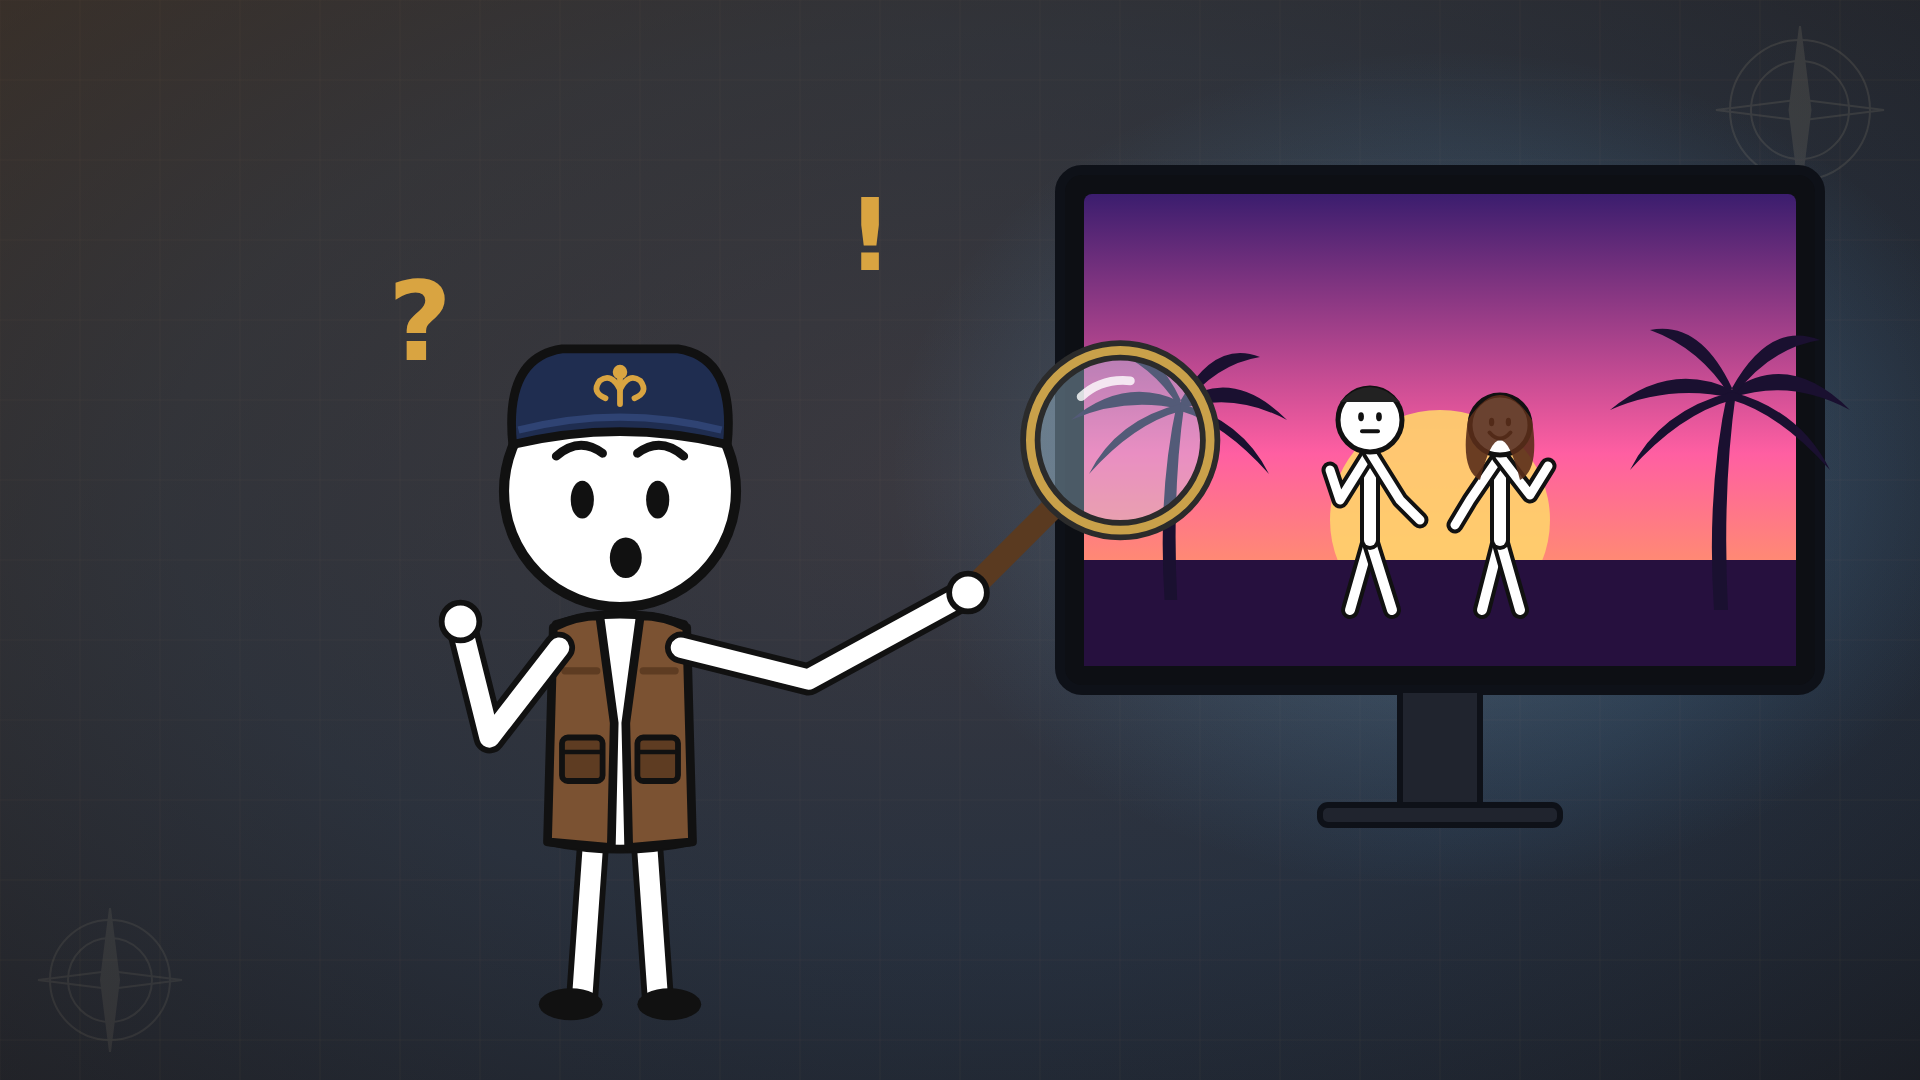
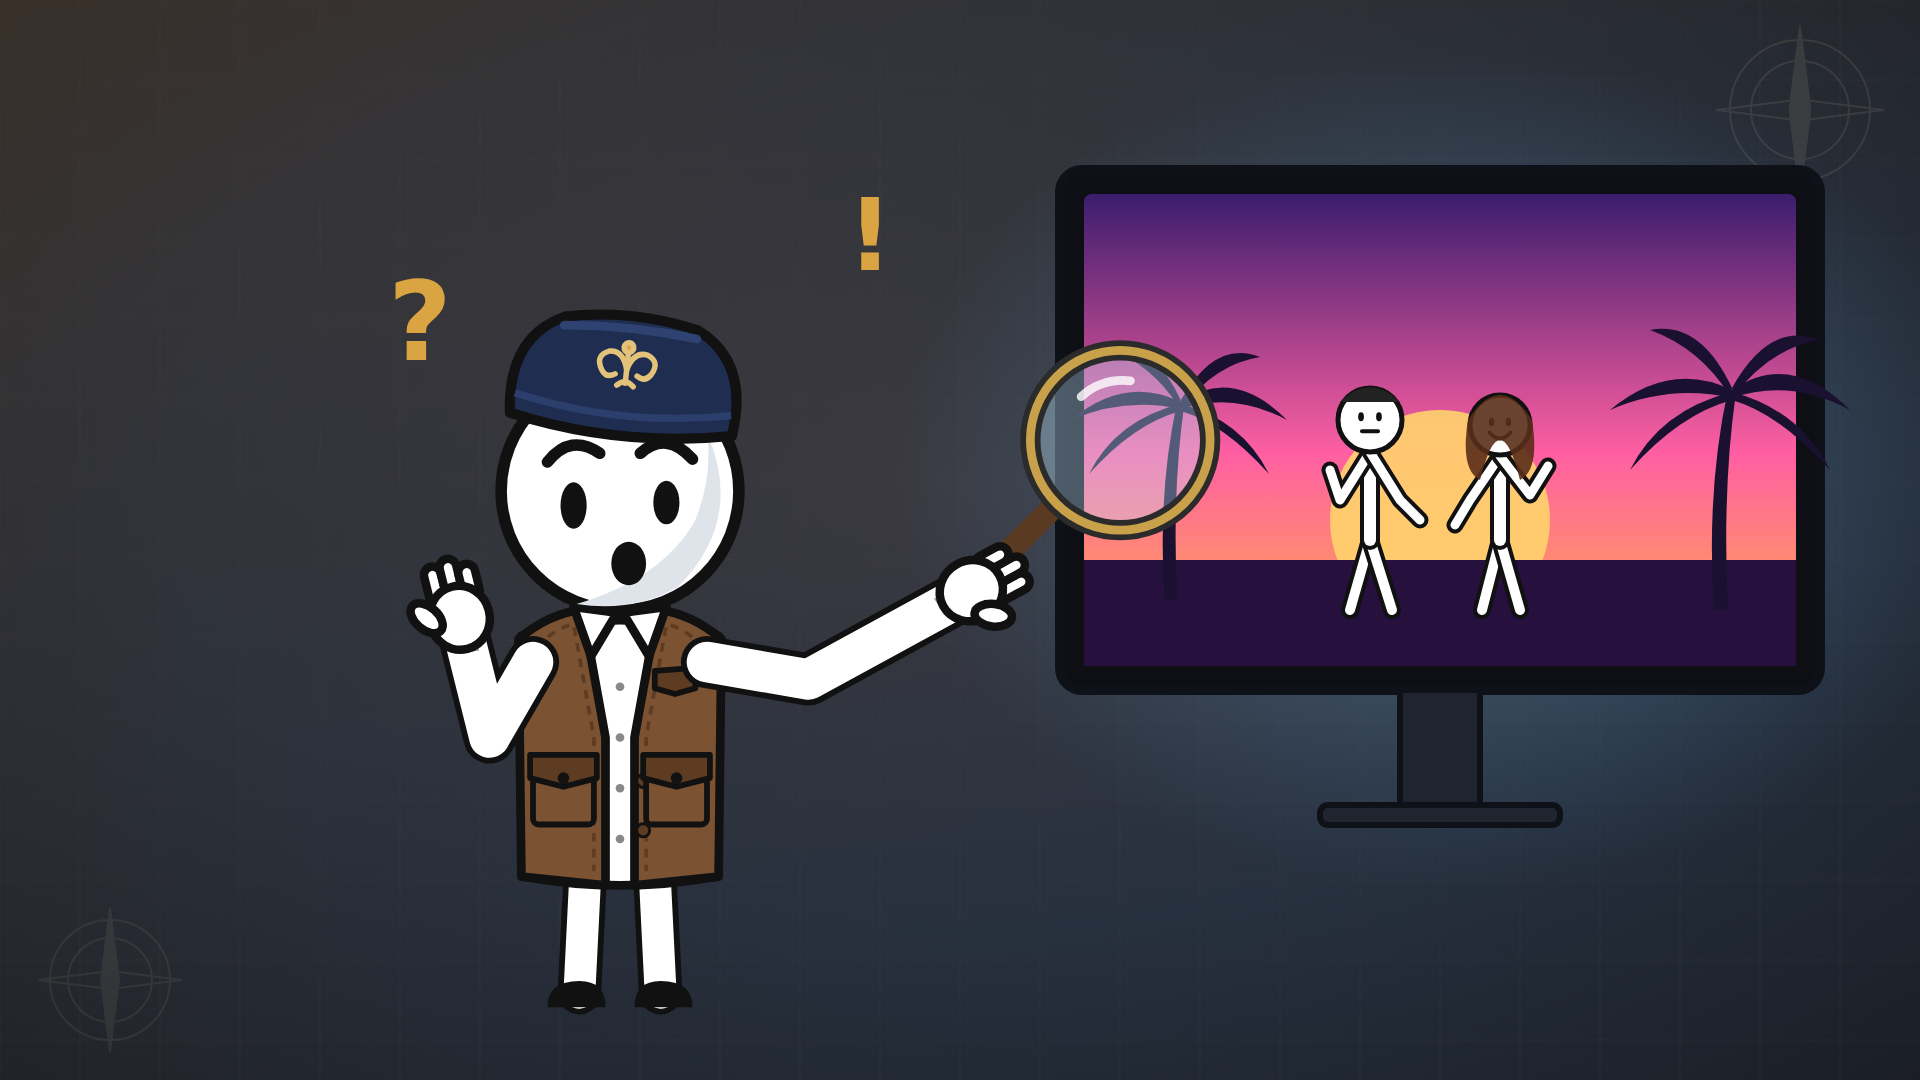
Redraw hero to match channel reference: dome taqiya, asymmetric brows, smirk, collar, pocketed vest, glove hands
Claude-Session: https://claude.ai/code/session_01PP4NAEE3rgNSQEwSM2dK67

Changed region(s): [[0.1875, 0.275, 0.5625, 0.9472]]

diff --git a/gta6_video/generate.py b/gta6_video/generate.py
@@ -28,8 +28,10 @@ def hand(x, y, r=13, fill="#ffffff"):
 
 
 def thumbs_up(x, y):
-    return (f'<rect x="{x-14}" y="{y-10}" width="28" height="24" rx="9" fill="#fff" stroke="{INK}" stroke-width="4"/>'
-            f'<rect x="{x-9}" y="{y-34}" width="11" height="28" rx="5.5" fill="#fff" stroke="{INK}" stroke-width="4"/>')
+    st = f'fill="#fff" stroke="{INK}" stroke-width="4.5"'
+    return (f'<g transform="translate({x},{y}) scale(1.3) translate({-x},{-y})"><rect x="{x-6}" y="{y-40}" width="14" height="34" rx="7" {st}/>'
+            f'<rect x="{x-18}" y="{y-12}" width="36" height="32" rx="11" {st}/>'
+            f'<path d="M{x-14},{y-2} h26 M{x-14},{y+8} h26" stroke="{INK}" stroke-width="3"/></g>')
 
 
 def text(x, y, s, size=40, fill="#f3e6c8", weight="bold", anchor="middle", extra=""):
@@ -77,93 +79,130 @@ def svg(body, title):
 
 # ---------- the channel hero: Зерттеуші Стикмен ----------
 def face(expr, dy=0, op=1):
+    """Face modelled on the channel reference: tall oval eyes, thick
+    asymmetric brows (left one arched higher), sideways smirk."""
     e = f'<g opacity="{op}" transform="translate(0,{dy})">'
+    br = f'stroke="{INK}" stroke-width="8" fill="none" stroke-linecap="round"'
     # eyes
     if expr == "wink":
-        e += f'<ellipse cx="-26" cy="-14" rx="8" ry="11" fill="{INK}"/>'
-        e += f'<path d="M14,-12 Q26,-20 38,-12" stroke="{INK}" stroke-width="5" fill="none" stroke-linecap="round"/>'
+        e += f'<ellipse cx="-28" cy="-10" rx="9" ry="14" fill="{INK}"/>'
+        e += f'<path d="M16,-8 Q30,-18 44,-8" stroke="{INK}" stroke-width="6" fill="none" stroke-linecap="round"/>'
     else:
-        ry = 13 if expr == "wow" else 11
-        e += f'<ellipse cx="-26" cy="-14" rx="8" ry="{ry}" fill="{INK}"/><ellipse cx="26" cy="-14" rx="8" ry="{ry}" fill="{INK}"/>'
+        ry = 16 if expr == "wow" else 14
+        e += f'<ellipse cx="-32" cy="-10" rx="9" ry="{ry}" fill="{INK}"/><ellipse cx="32" cy="-12" rx="9" ry="{ry-1}" fill="{INK}"/>'
     # brows
     if expr == "wow":
-        e += f'<path d="M-44,-44 Q-28,-58 -12,-46" stroke="{INK}" stroke-width="6" fill="none" stroke-linecap="round"/>'
-        e += f'<path d="M12,-46 Q28,-58 44,-44" stroke="{INK}" stroke-width="6" fill="none" stroke-linecap="round"/>'
+        e += f'<path d="M-50,-40 Q-34,-60 -14,-46" {br}/><path d="M14,-46 Q32,-62 50,-42" {br}/>'
     else:
-        e += f'<path d="M-44,-36 Q-28,-48 -12,-38" stroke="{INK}" stroke-width="6" fill="none" stroke-linecap="round"/>'
-        e += f'<path d="M12,-40 Q30,-50 44,-38" stroke="{INK}" stroke-width="6" fill="none" stroke-linecap="round"/>'
+        e += f'<path d="M-50,-34 Q-34,-54 -14,-42" {br}/><path d="M14,-40 Q32,-50 50,-36" {br}/>'
     # mouth
     if expr == "wow":
-        e += f'<ellipse cx="4" cy="26" rx="11" ry="14" fill="{INK}"/>'
+        e += f'<ellipse cx="6" cy="30" rx="12" ry="15" fill="{INK}"/>'
     elif expr == "grin":
-        e += f'<path d="M-30,14 Q4,52 36,12 Q4,26 -30,14 Z" fill="{INK}"/>'
-        e += '<path d="M-14,34 Q4,44 20,32 Q4,30 -14,34 Z" fill="#d9534f"/>'
+        e += f'<path d="M-30,16 Q8,56 44,12 Q8,28 -30,16 Z" fill="{INK}"/>'
+        e += '<path d="M-12,36 Q8,46 26,34 Q8,32 -12,36 Z" fill="#d9534f"/>'
     else:
-        e += f'<path d="M-28,18 Q2,44 36,12" stroke="{INK}" stroke-width="6" fill="none" stroke-linecap="round"/>'
-        e += f'<path d="M30,8 Q38,12 40,18" stroke="{INK}" stroke-width="5" fill="none" stroke-linecap="round"/>'
+        e += f'<path d="M-20,24 Q14,44 46,14" stroke="{INK}" stroke-width="7" fill="none" stroke-linecap="round"/>'
+        e += f'<path d="M42,6 Q52,10 52,20" stroke="{INK}" stroke-width="6" fill="none" stroke-linecap="round"/>'
     return e + '</g>'
 
 
 def taqiya(op=1):
-    return (f'<g opacity="{op}"><path d="M-74,-52 Q-80,-112 -40,-118 L40,-118 Q80,-112 74,-52 Q0,-70 -74,-52 Z" '
-            f'fill="{NAVY}" stroke="{INK}" stroke-width="6" stroke-linejoin="round"/>'
-            f'<path d="M-70,-62 Q0,-80 70,-62" stroke="#2f4373" stroke-width="5" fill="none"/>'
-            # gold ornament (stylised Kazakh "қошқар мүйіз")
-            f'<g stroke="{GOLD}" stroke-width="4" fill="none" stroke-linecap="round">'
-            f'<path d="M0,-80 L0,-98"/><path d="M0,-90 Q-6,-102 -14,-96 Q-20,-88 -10,-84"/>'
-            f'<path d="M0,-90 Q6,-102 14,-96 Q20,-88 10,-84"/><circle cx="0" cy="-102" r="3" fill="{GOLD}"/></g></g>')
+    """Dome-shaped dark-navy Kazakh skullcap, slightly tilted, gold ornament."""
+    return (f'<g opacity="{op}" transform="rotate(6 0 -60)">'
+            f'<path d="M-77,-66 Q-84,-118 -46,-136 Q0,-146 46,-136 Q84,-118 77,-66 Q0,-50 -77,-66 Z" '
+            f'fill="{NAVY}" stroke="{INK}" stroke-width="7" stroke-linejoin="round"/>'
+            f'<path d="M-75,-80 Q0,-64 75,-80" stroke="#2c3f6c" stroke-width="5" fill="none"/>'
+            f'<path d="M-46,-130 Q0,-135 46,-130" stroke="#33497a" stroke-width="6" fill="none" stroke-linecap="round" opacity="0.8"/>'
+            # gold ornament (stylised "қошқар мүйіз")
+            f'<g stroke="#e3c27a" stroke-width="4" fill="none" stroke-linecap="round" transform="translate(0,-104) scale(0.95)">'
+            f'<path d="M0,10 L0,-12"/>'
+            f'<path d="M0,0 Q-4,-14 -14,-12 Q-24,-8 -18,2 Q-14,8 -8,4"/>'
+            f'<path d="M0,0 Q4,-14 14,-12 Q24,-8 18,2 Q14,8 8,4"/>'
+            f'<path d="M-6,12 Q0,6 6,12"/><circle cx="0" cy="-16" r="3.5" fill="{GOLD}"/></g></g>')
 
 
 def glasses():
     return (f'<g stroke="{INK}" stroke-width="5" fill="#bfe3ff" fill-opacity="0.25">'
-            f'<circle cx="-26" cy="-14" r="20"/><circle cx="26" cy="-14" r="20"/>'
-            f'<path d="M-6,-16 Q0,-22 6,-16" fill="none"/>'
-            f'<path d="M-46,-18 L-74,-24" fill="none"/><path d="M46,-18 L74,-24" fill="none"/></g>')
+            f'<circle cx="-28" cy="-11" r="22"/><circle cx="28" cy="-12" r="22"/>'
+            f'<path d="M-6,-14 Q0,-20 6,-14" fill="none"/>'
+            f'<path d="M-50,-16 L-78,-22" fill="none"/><path d="M50,-16 L78,-22" fill="none"/></g>')
+
+
+def glove(x, y, ang, flip=False):
+    """Cartoon glove hand oriented along the forearm (angle in degrees)."""
+    sy = -1 if flip else 1
+    st = f'fill="#fff" stroke="{INK}" stroke-width="4.5" stroke-linejoin="round"'
+    return (f'<g transform="translate({x},{y}) rotate({ang:.1f}) scale(1.3,{sy*1.3})">'
+            f'<rect x="10" y="-13" width="22" height="9" rx="4.5" {st}/>'
+            f'<rect x="12" y="-4" width="22" height="9" rx="4.5" {st}/>'
+            f'<rect x="10" y="5" width="19" height="9" rx="4.5" {st}/>'
+            f'<ellipse cx="2" cy="0" rx="17" ry="16" {st}/>'
+            f'<ellipse cx="6" cy="-17" rx="10" ry="6" transform="rotate(-35 6 -17)" {st}/>'
+            f'<path d="M-14,-6 L-16,6" stroke="{INK}" stroke-width="3" opacity="0.4"/></g>')
 
 
 def hero(x, y, s=1.0, arms=None, expr="smile", legs="stand", behind="", held="",
          front="", glasses_on=False, xray=False):
     """arms: dict L/R -> list of (x,y) points after the shoulder; last point = hand.
     held: svg drawn between arms and hands (objects in hand).
-    Local coordinates: head centre (0,-20) r=80, feet near y=340."""
-    arms = arms or {"L": [(-70, 150), (-62, 205)], "R": [(70, 150), (62, 205)]}
+    Local coordinates: head centre (0,-20) r=82, feet near y=340."""
+    import math
+    arms = arms or {"L": [(-76, 150), (-66, 205)], "R": [(76, 150), (66, 205)]}
     g = f'<g transform="translate({x},{y}) scale({s})">' + behind
     # legs
     if legs == "stand":
-        g += limb("M-18,215 L-26,328") + limb("M18,215 L26,328")
-        g += f'<ellipse cx="-34" cy="334" rx="22" ry="11" fill="{INK}"/><ellipse cx="34" cy="334" rx="22" ry="11" fill="{INK}"/>'
+        g += limb("M-24,246 L-28,326", 22) + limb("M24,246 L28,326", 22)
+        g += f'<path d="M-50,336 Q-50,318 -28,318 Q-10,318 -10,336 Z" fill="{INK}"/><path d="M50,336 Q50,318 28,318 Q10,318 10,336 Z" fill="{INK}"/>'
     else:  # sitting, seen from the front
-        g += limb("M-22,215 L-34,250 L-36,312") + limb("M22,215 L34,250 L36,312")
-        g += f'<ellipse cx="-44" cy="318" rx="22" ry="11" fill="{INK}"/><ellipse cx="44" cy="318" rx="22" ry="11" fill="{INK}"/>'
-    # torso + vest
-    g += f'<path d="M-44,72 Q0,58 44,72 L48,222 Q0,232 -48,222 Z" fill="#fff" stroke="{INK}" stroke-width="6" stroke-linejoin="round"/>'
-    g += (f'<path d="M-46,74 Q-30,66 -14,66 L-4,140 L-6,226 L-50,222 Z" fill="{VEST}" stroke="{INK}" stroke-width="6" stroke-linejoin="round"/>'
-          f'<path d="M46,74 Q30,66 14,66 L4,140 L6,226 L50,222 Z" fill="{VEST}" stroke="{INK}" stroke-width="6" stroke-linejoin="round"/>'
-          f'<rect x="-40" y="150" width="28" height="30" rx="4" fill="{VEST_D}" stroke="{INK}" stroke-width="4"/>'
-          f'<rect x="12" y="150" width="28" height="30" rx="4" fill="{VEST_D}" stroke="{INK}" stroke-width="4"/>'
-          f'<path d="M-40,160 L-12,160 M12,160 L40,160" stroke="{INK}" stroke-width="3"/>'
-          f'<path d="M-38,104 L-16,104 M16,104 L38,104" stroke="{VEST_D}" stroke-width="5" stroke-linecap="round"/>')
-    # arms
-    for side, sx in (("L", -42), ("R", 42)):
-        pts = [(sx, 88)] + list(arms[side])
+        g += limb("M-26,246 L-38,268 L-40,310", 22) + limb("M26,246 L38,268 L40,310", 22)
+        g += f'<path d="M-62,322 Q-62,304 -40,304 Q-20,304 -20,322 Z" fill="{INK}"/><path d="M62,322 Q62,304 40,304 Q20,304 20,322 Z" fill="{INK}"/>'
+    # white shirt torso
+    sw = f'stroke="{INK}" stroke-width="6" stroke-linejoin="round"'
+    g += f'<path d="M-68,80 Q0,58 68,80 L66,246 Q0,258 -66,246 Z" fill="#fff" {sw}/>'
+    # shirt buttons in the open front
+    g += ''.join(f'<circle cx="0" cy="{yy}" r="3" fill="{INK}" opacity="0.5"/>' for yy in (115, 150, 185, 220))
+    # vest panels (V-neck, open front)
+    g += (f'<path d="M-70,82 Q-48,64 -26,62 L-10,150 L-10,252 L-68,246 Z" fill="{VEST}" {sw}/>'
+          f'<path d="M70,82 Q48,64 26,62 L10,150 L10,252 L68,246 Z" fill="{VEST}" {sw}/>'
+          # stitching
+          f'<path d="M-58,88 Q-44,74 -32,72 L-18,150 L-18,242 M58,88 Q44,74 32,72 L18,150 L18,242" stroke="{VEST_D}" stroke-width="2.5" stroke-dasharray="6 5" fill="none"/>'
+          # vest buttons
+          f'<circle cx="16" cy="180" r="4.5" fill="{VEST_D}" stroke="{INK}" stroke-width="2"/><circle cx="16" cy="214" r="4.5" fill="{VEST_D}" stroke="{INK}" stroke-width="2"/>')
+    # pockets with flaps + buttons (two lower, one chest)
+    for px in (-60, 18):
+        g += (f'<rect x="{px}" y="162" width="42" height="48" rx="4" fill="{VEST}" stroke="{INK}" stroke-width="4"/>'
+              f'<path d="M{px-2},162 L{px+44},162 L{px+44},178 L{px+21},184 L{px-2},178 Z" fill="{VEST_D}" stroke="{INK}" stroke-width="4" stroke-linejoin="round"/>'
+              f'<circle cx="{px+21}" cy="178" r="4" fill="{INK}"/>')
+    g += (f'<path d="M24,104 L52,102 L52,116 L38,120 L24,116 Z" fill="{VEST_D}" stroke="{INK}" stroke-width="4" stroke-linejoin="round"/>')
+    # shirt collar
+    g += (f'<path d="M-2,64 L-32,60 L-20,94 Z" fill="#fff" {sw}/>'
+          f'<path d="M2,64 L32,60 L20,94 Z" fill="#fff" {sw}/>')
+    # arms (thicker sleeves)
+    for side, sx in (("L", -60), ("R", 60)):
+        pts = [(sx, 98)] + list(arms[side])
         d = "M" + " L".join(f"{px},{py}" for px, py in pts)
-        g += limb(d)
+        g += limb(d, 28)
     g += held
-    for side in ("L", "R"):
-        hx, hy = arms[side][-1]
+    for side, sx in (("L", -60), ("R", 60)):
+        pts = [(sx, 98)] + list(arms[side])
+        hx, hy = pts[-1]
+        px, py = pts[-2]
         if side + "_thumb" in arms:
             g += thumbs_up(hx, hy)
         else:
-            g += hand(hx, hy)
+            ang = math.degrees(math.atan2(hy - py, hx - px))
+            g += glove(hx, hy, ang, flip=(side == "R"))
     # head
     if xray:
-        g += ('<circle cx="0" cy="-20" r="80" fill="#9fdcff" fill-opacity="0.22" stroke="#7fd4ff" stroke-width="6"/>'
-              '<circle cx="0" cy="-20" r="80" fill="none" stroke="#ffffff" stroke-opacity="0.5" stroke-width="2" stroke-dasharray="4 6"/>')
-        g += "".join(f'<line x1="-78" y1="{yy}" x2="78" y2="{yy}" stroke="#bfe9ff" stroke-opacity="0.12" stroke-width="2"/>' for yy in range(-92, 58, 10))
+        g += ('<circle cx="0" cy="-20" r="82" fill="#9fdcff" fill-opacity="0.22" stroke="#7fd4ff" stroke-width="6"/>'
+              '<circle cx="0" cy="-20" r="82" fill="none" stroke="#ffffff" stroke-opacity="0.5" stroke-width="2" stroke-dasharray="4 6"/>')
+        g += "".join(f'<line x1="-80" y1="{yy}" x2="80" y2="{yy}" stroke="#bfe9ff" stroke-opacity="0.12" stroke-width="2"/>' for yy in range(-94, 58, 10))
         g += front
-        g += face(expr, dy=14, op=0.85) + taqiya(op=0.45)
+        g += face(expr, dy=16, op=0.85) + taqiya(op=0.4)
     else:
-        g += f'<circle cx="0" cy="-20" r="80" fill="#fff" stroke="{INK}" stroke-width="7"/>'
+        g += f'<circle cx="0" cy="-20" r="82" fill="#fff" stroke="{INK}" stroke-width="8"/>'
+        g += '<path d="M60,-60 Q86,0 40,46 Q10,64 -30,58 Q30,40 52,0 Q64,-30 60,-60 Z" fill="#dfe3ea"/>'
         g += face(expr)
         if glasses_on:
             g += glasses()
